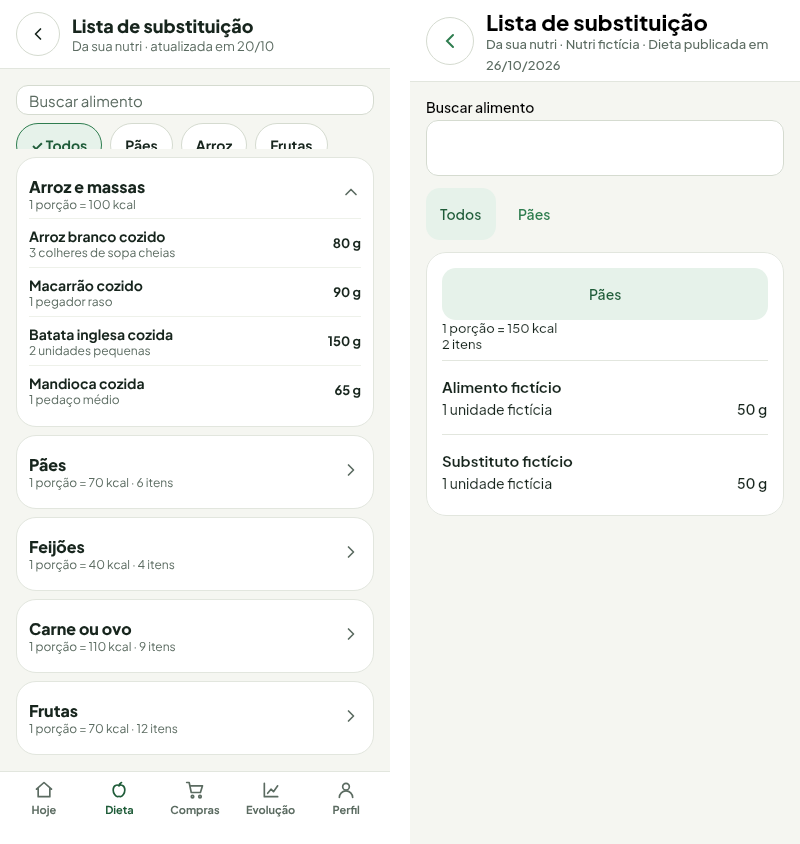
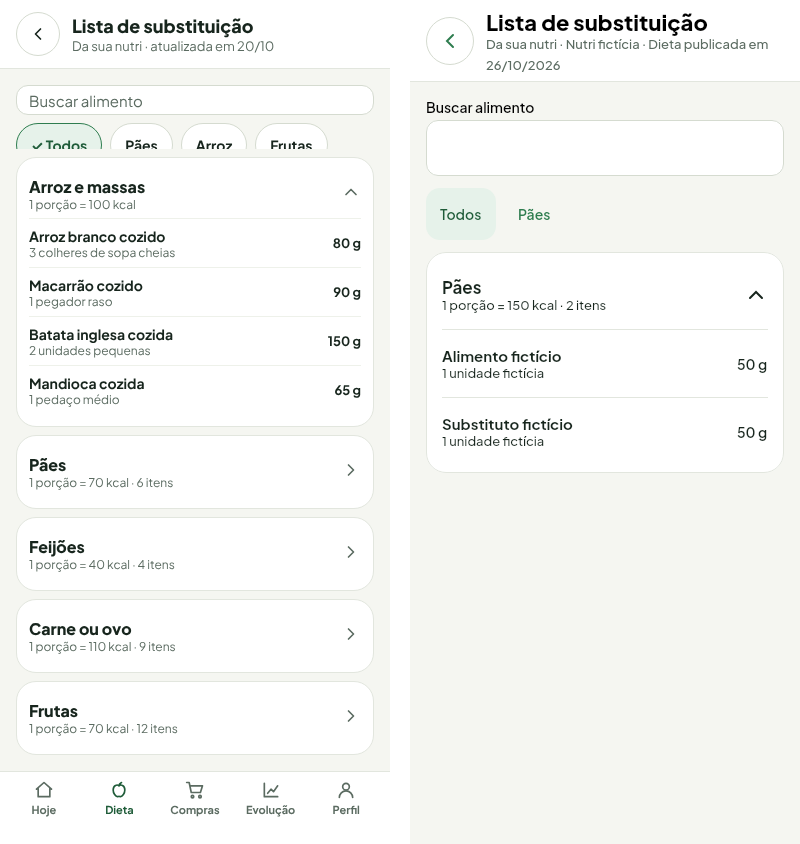
Chip de estado nas refeições da dieta e seta em ícone na lista de substituição
Claude-Session: https://claude.ai/code/session_0136NnwevBqGgYAivuoduyxj

Changed region(s): [[0.5312, 0.3081, 0.9688, 0.5853], [0.9062, 0.4313, 0.9688, 0.5237], [0.9062, 0.5545, 0.9688, 0.5853]]

diff --git a/shared/src/commonMain/kotlin/org/br/dietamais/ui/paciente/dieta/DietaPacienteTela.kt b/shared/src/commonMain/kotlin/org/br/dietamais/ui/paciente/dieta/DietaPacienteTela.kt
@@ -68,6 +68,12 @@ fun DietaPacienteTela(estado: EstadoDietaPaciente, aoAbrirRefeicao: (Uuid?) -> U
                                 verticalAlignment = Alignment.CenterVertically, horizontalArrangement = Arrangement.spacedBy(Dimens.espacoMedio)) {
                                 Text(stringResource(Res.string.refeicao_nome_horario, r.nome, r.horario.toString().take(5)), Modifier.weight(1f), style = MaterialTheme.typography.titleSmall)
                                 Text(stringResource(Res.string.pac_dieta_kcal_refeicao, formatar(r.totais.kcal)), style = MaterialTheme.typography.bodyMedium, color = MaterialTheme.colorScheme.onSurfaceVariant)
+                                ChipStatus(when (estado.checkins[r.id]) {
+                                    StatusCheckin.FEITO -> EstiloStatus.FEITA
+                                    StatusCheckin.TROCADO -> EstiloStatus.TROCADA
+                                    StatusCheckin.PULADO -> EstiloStatus.ALERTA
+                                    else -> if (r.id == estado.proxima?.id) EstiloStatus.AGORA else EstiloStatus.DEPOIS
+                                })
                             }
                             HorizontalDivider(color = MaterialTheme.colorScheme.outlineVariant)
                         }

diff --git a/shared/src/commonMain/kotlin/org/br/dietamais/ui/paciente/substituicao/ListaSubstituicaoTela.kt b/shared/src/commonMain/kotlin/org/br/dietamais/ui/paciente/substituicao/ListaSubstituicaoTela.kt
@@ -19,6 +19,7 @@ import androidx.window.core.layout.WindowSizeClass
 import org.br.dietamais.dominio.rotina.GrupoListaPaciente
 import org.br.dietamais.recursos.*
 import org.br.dietamais.ui.comum.*
+import org.br.dietamais.ui.comum.icones.IconesDieta
 import org.br.dietamais.ui.paciente.dieta.EstadoDietaPaciente
 import org.br.dietamais.ui.paciente.dieta.numeroPaciente
 import org.br.dietamais.ui.theme.Dimens
@@ -112,7 +113,7 @@ private fun CabecalhoGrupo(g: GrupoListaPaciente, indice: Int, aberto: Boolean, 
             Text(nomeGrupo(g, indice), style = MaterialTheme.typography.titleMedium)
             Text(energia + " · " + stringResource(Res.string.pac_lista_itens, g.alimentos.size), style = MaterialTheme.typography.bodySmall)
         }
-        Text(if (aberto) "\u2303" else "\u2304", Modifier.clearAndSetSemantics {}, style = MaterialTheme.typography.titleMedium)
+        Icon(if (aberto) IconesDieta.SetaCima else IconesDieta.SetaBaixo, contentDescription = null)
     }
 }
 

diff --git a/shared/src/commonMain/kotlin/org/br/dietamais/ui/comum/icones/IconesDieta.kt b/shared/src/commonMain/kotlin/org/br/dietamais/ui/comum/icones/IconesDieta.kt
@@ -25,6 +25,8 @@ object IconesDieta {
     val Lista by lazy { icone("Lista", "M8 6h13M8 12h13M8 18h13M3 6h.01M3 12h.01M3 18h.01") }
     val Mais by lazy { icone("Mais", "M12 5v14M5 12h14") }
     val Voltar by lazy { icone("Voltar", "M15 18l-6-6 6-6", espelhar = true) }
+    val SetaBaixo by lazy { icone("Abrir", "M6 9l6 6 6-6") }
+    val SetaCima by lazy { icone("Fechar", "M18 15l-6-6-6 6") }
     val Fechar by lazy { icone("Fechar", "M18 6 6 18M6 6l12 12") }
     val Busca by lazy { icone("Busca", "M18 11a7 7 0 1 1-14 0a7 7 0 1 1 14 0M20 20l-3.5-3.5") }
     val Alerta by lazy { icone("Alerta", "M10.3 3.8 1.8 18.5A1.7 1.7 0 0 0 3.3 21h17.4a1.7 1.7 0 0 0 1.5-2.5L13.7 3.8a2 2 0 0 0-3.4 0zM12 9v4M12 17h.01") }

diff --git a/docs/design/divergencias.md b/docs/design/divergencias.md
@@ -15,7 +15,7 @@ Revisão do Design e Usabilidade sobre a `develop` do `dieta-mobile` (até MOB-5
 - [ ] **D-06 · Botão "i" de explicação** nos números da nutri (fórmula, referência, frase), previsto no plano 4.1 e em [padrao-ui.md](padrao-ui.md#5-padrões-de-interação). Não está nos passos de Composição e Necessidades. Resolve: executor, após o BE entregar os textos.
 
 - [x] **D-07 · Lista de substituição do paciente não é acordeão.** O artboard `P-Lista-Substituicao` mostra os grupos recolhidos com "1 porção = N kcal · M itens" e a medida caseira embaixo do nome de cada alimento; o app mostra o cabeçalho do grupo como botão de texto (ver `evidencias/AUD-01/lista-substituicao.png`). Resolve: executor.
-- [ ] **D-08 · Chip de estado da refeição na dieta.** O artboard `P-Dieta-Macros` mostra Feita, Agora ou Depois no fim de cada linha; o app mostra só horário e kcal (`DietaPacienteTela`). Resolve: executor.
+- [x] **D-08 · Chip de estado da refeição na dieta.** O artboard `P-Dieta-Macros` mostra Feita, Agora ou Depois no fim de cada linha; o app mostra só horário e kcal (`DietaPacienteTela`). Resolve: executor.
 - [ ] **D-09 · Avaliação infantil sem "Resultados ao vivo".** `A-Avaliacao-Infantil` tem o cartão com a régua Z; o app mostra "Resultados por idade" só depois de sincronizar (limite do contrato BE-55b, ver observações abaixo). Resolve: depende do backend.
 - [ ] **D-10 · Telas sem barra superior própria.** Meus exames, Meus resultados, Protocolos e Necessidades ficam dentro do cartão ou da aba do host e não têm a barra do padrão. Resolve: executor, junto da próxima tarefa que mexer nelas.
 

diff --git a/docs/design/evidencias/AUD-01/README.md b/docs/design/evidencias/AUD-01/README.md
@@ -4,4 +4,4 @@ Gerado pelos testes de evidência (`./gradlew :shared:jvmTest`, PNGs em `shared/
 
 - `avaliacao-infantil.png`: barra superior, unidade dentro do campo e rodapé fixo batem; falta o painel "Resultados ao vivo" (depende de BE-55b).
 - `anamnese.png`: o app mostra a anamnese do paciente (barra e rodapé fixo); o artboard é o passo de hábitos da nutri.
-- `dieta-macros.png` e `lista-substituicao.png`: as capturas de teste usam a tela interna sem a navegação inferior; a lista ainda não é acordeão como no artboard.
+- `dieta-macros.png` e `lista-substituicao.png`: as capturas de teste usam a tela interna sem a navegação inferior; a lista é acordeão e a dieta mostra o chip de estado (PRs #79 e seguinte).
